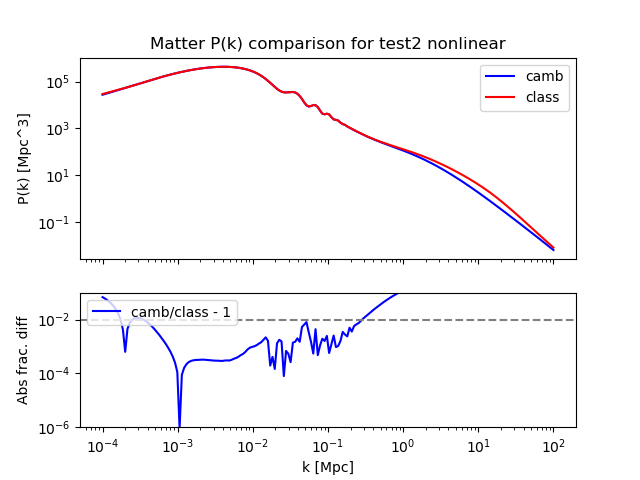
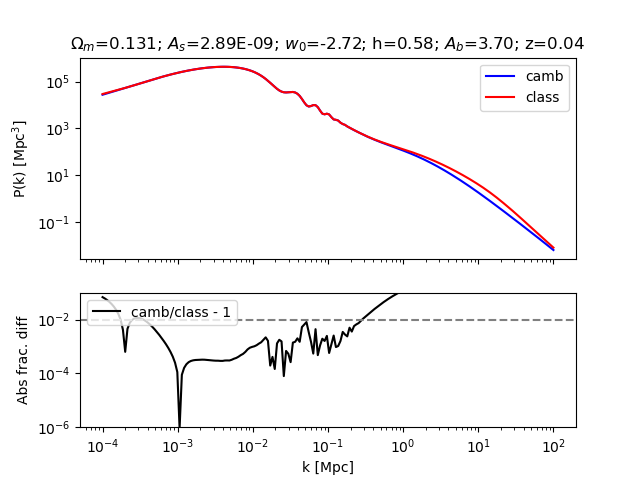
Update code and plots

diff --git a/camb_vs_class_Pk.py b/camb_vs_class_Pk.py
@@ -149,14 +149,21 @@ fig, axes = plt.subplots(2, 1, gridspec_kw={'height_ratios': [3, 2]}, sharex=Tru
 ax = axes[0]
 ax.plot(k, P_camb, color='b', label='camb')
 ax.plot(k, P_class, color='r', label='class')
-ax.set_ylabel('P(k) [Mpc^3]')
+ax.set_ylabel('P(k) [Mpc$^3$]')
 ax.set_xscale('log')
 ax.set_yscale('log')
-ax.set_title('Matter P(k) comparison for '+cosmology_name+' '+lin_or_nl);
+#ax.set_title('Matter P(k) comparison for '+cosmology_name+' '+lin_or_nl);
+if (lin_or_nl == 'linear'):
+    ax.set_title(r'$\Omega_m$={0:.3f}; $A_s$={1:.2E}; $w_0$={2:.2f}; h={3:.2f}; z={4:.2f}'.format(Omega_m, A_s, w0, h, z_test));
+elif (lin_or_nl == 'nonlinear'):
+    ax.set_title(r'$\Omega_m$={0:.3f}; $A_s$={1:.2E}; $w_0$={2:.2f}; h={3:.2f}; $A_b$={4:.2f}; z={5:.2f}'.format(Omega_m, A_s, w0, h, c_min, z_test));
+else:
+    raise NotImplementedError
+
 ax.legend()
 
 ax = axes[1]
-ax.plot(k, np.abs((P_camb/P_class - 1)), color='b', label='camb/class - 1')
+ax.plot(k, np.abs((P_camb/P_class - 1)), color='k', label='camb/class - 1')
 ax.axhline(0.01, c='grey', ls='dashed')
 ax.set_xlabel('k [Mpc]')
 ax.set_ylabel('Abs frac. diff')
